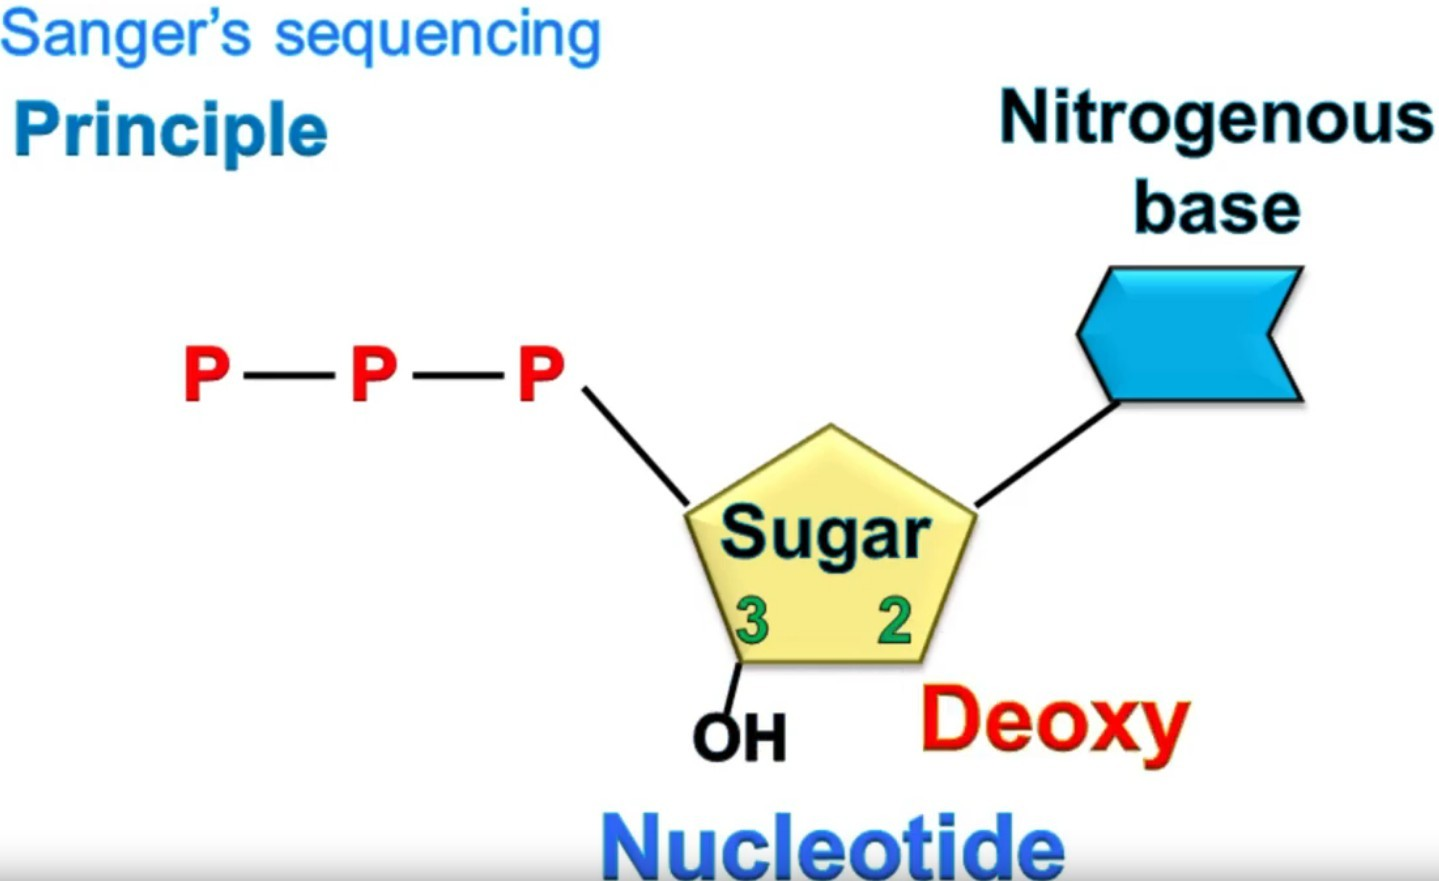
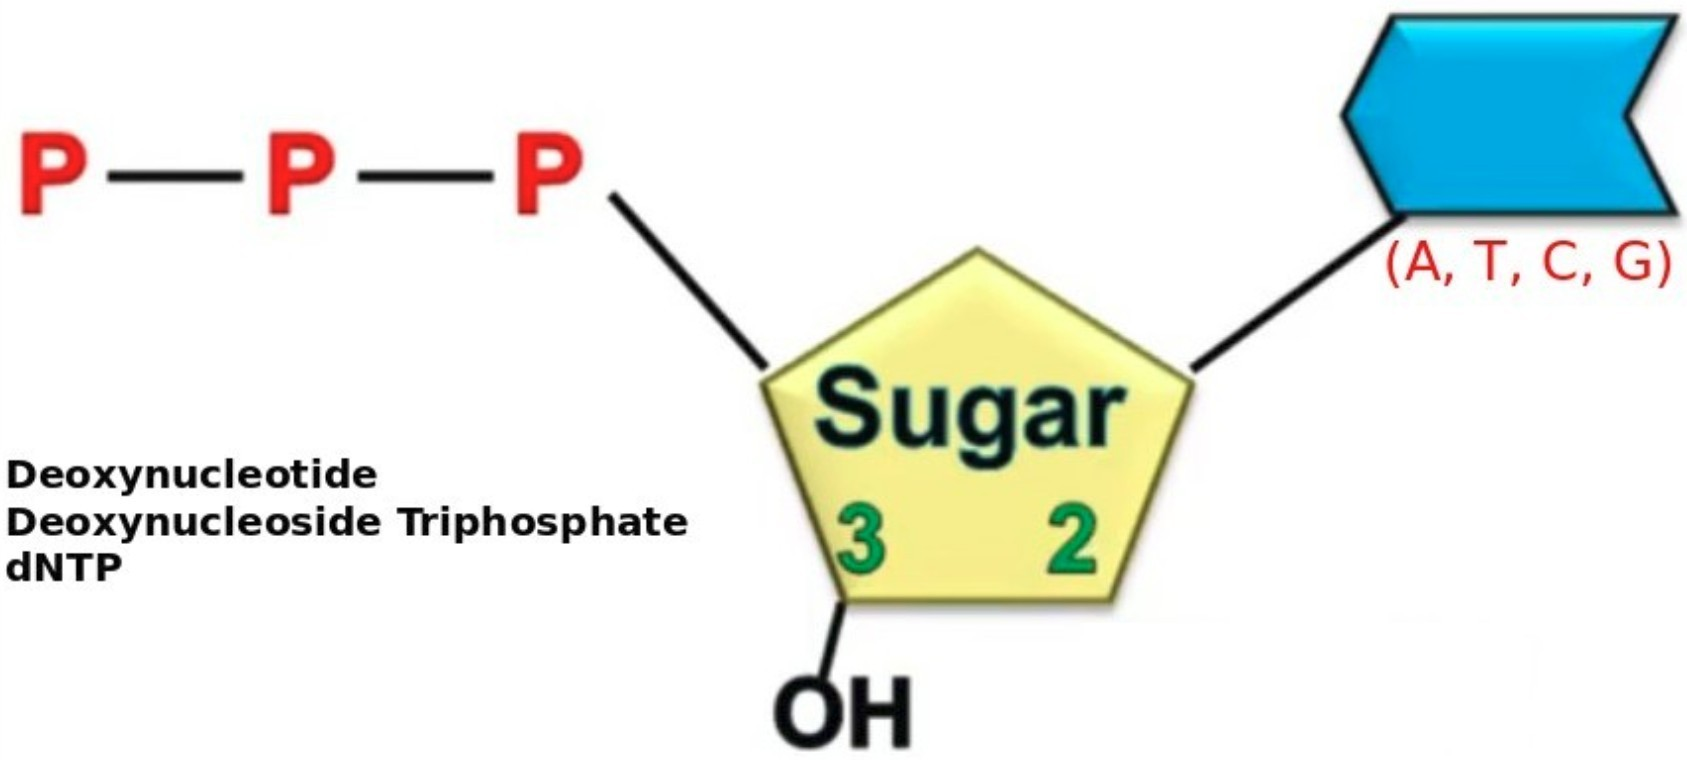
DNA sequencing terminado

Changed region(s): [[0.0, 0.0, 1.0, 1.0], [0.0, 0.0, 0.4281, 0.3026], [0.0, 0.6053, 0.4281, 0.7868]]

diff --git a/5_dna_sequencing.tex b/5_dna_sequencing.tex
@@ -25,7 +25,7 @@
 % CHOOSE THE THEME
 %-------------------------------------------------------
 \def\mycmd{0} % CS THEME
-\def\mycmd{1} % MYTHEME
+%\def\mycmd{1} % MYTHEME
 %-------------------------------------------------------
 
 \if\mycmd1
@@ -51,11 +51,11 @@
 \begin{document}
 	
 	
-	\AtBeginSection[]
+	\AtBeginSubsection[]
 	{
 		\begin{frame}
 			\frametitle{Table of Contents}
-			\tableofcontents[currentsection]
+			\tableofcontents[currentsubsection]
 		\end{frame}
 	}
 	
@@ -171,14 +171,22 @@
 %-------------------------------------------------------
 \begin{frame}{Sanger DNA sequencing}{Definition}
 	
-	\begin{block}{}
-		Sanger in 1975 proposed a method for determining sequences in DNA by primed synthesis with DNA polymerase \cite{sanger1996rapid}.
-	\end{block}
-	
-	\begin{block}{}
-		Sanger method is based on the principle of \textbf{Di deoxynucleotide}.
-	\end{block}
-	
+		\begin{columns}
+			\begin{column}{0.48\textwidth}
+				\begin{block}{}
+					Sanger (1975) proposed a method for determining sequences in DNA by primed synthesis with DNA polymerase \cite{sanger1977dna}. \\ 
+					It is based on the principle of \textbf{Di deoxynucleotide}.
+				\end{block} 
+			\end{column}
+			\begin{column}{0.48\textwidth}
+				\begin{figure}[]
+					\centering
+					\includegraphics[width=\textwidth,height=0.5\textheight,keepaspectratio]{img/sequencing/sanger.jpg}
+					\label{img:mot2}
+					\caption{Frederick Sanger in 1977.}
+				\end{figure}
+			\end{column}
+		\end{columns}	
 \end{frame}
 %-------------------------------------------------------
 %-------------------------------------------------------
@@ -207,12 +215,26 @@
 
 %-------------------------------------------------------
 %-------------------------------------------------------
+\begin{frame}{Sanger method}{dNTP}	
+	\begin{block}{dNTP}
+		Deoxynucleoside triphosphate \textbf{dNTPs} are standard natural substrates of all DNA polymerases.
+	\end{block}
+\end{frame}
+%-------------------------------------------------------
+%-------------------------------------------------------
+
+
+
+
+
+%-------------------------------------------------------
+%-------------------------------------------------------
 \begin{frame}{Sanger method}{Deoxynucleotide}
 	\begin{figure}[]
 		\centering
 		\includegraphics[width=\textwidth,height=0.6\textheight,keepaspectratio]{img/sequencing/seq2.jpg}
 		\label{img:mot2}
-		\caption{Deoxynucleotides doesn't have the hydroxyl group at the 4' carbon of sugar.}
+		\caption{Deoxynucleotides doesn't have the hydroxyl group at the 2' carbon of sugar.}
 	\end{figure}
 \end{frame}
 %-------------------------------------------------------
@@ -231,20 +253,23 @@
 %-------------------------------------------------------
 %-------------------------------------------------------
 
-
 %-------------------------------------------------------
 %-------------------------------------------------------
-\begin{frame}{Sanger method}{dNTP}	
-	\begin{block}{dNTP}
-		Deoxynucleoside triphosphate \textbf{dNTPs} are standard natural substrates of all DNA polymerases.
-	\end{block}
+\begin{frame}{Sanger method}{Deoxynucleotide}
+	\begin{figure}[]
+		\centering
+		\includegraphics[width=\textwidth,height=0.7\textheight,keepaspectratio]{img/sequencing/seq10.png}
+		\label{img:mot2}
+		\caption{Deoxynucleotides: dATP, dTTP, dCTP and dGTP.}
+	\end{figure}
 \end{frame}
 %-------------------------------------------------------
 %-------------------------------------------------------
 
+
 %-------------------------------------------------------
 %-------------------------------------------------------
-\begin{frame}{Sanger method}{Nucleotides and nucleosides}
+\begin{frame}{Sanger method}{DNA replication - Di Deoxynucletide principle}
 	\begin{figure}[]
 		\centering
 		\includegraphics[width=\textwidth,height=0.6\textheight,keepaspectratio]{img/sequencing/seq4.jpg}
@@ -257,7 +282,7 @@
 
 %-------------------------------------------------------
 %-------------------------------------------------------
-\begin{frame}{Sanger method}{Nucleotides and nucleosides}
+\begin{frame}{Sanger method}{DNA replication - Di Deoxynucletide principle}
 	\begin{figure}[]
 		\centering
 		\includegraphics[width=\textwidth,height=0.6\textheight,keepaspectratio]{img/sequencing/seq5.jpg}
@@ -270,7 +295,7 @@
 
 %-------------------------------------------------------
 %-------------------------------------------------------
-\begin{frame}{Sanger method}{Nucleotides and nucleosides}
+\begin{frame}{Sanger method}{DNA replication - Di Deoxynucletide principle}
 	\begin{figure}[]
 		\centering
 		\includegraphics[width=\textwidth,height=0.6\textheight,keepaspectratio]{img/sequencing/seq6.jpg}
@@ -282,12 +307,226 @@
 %-------------------------------------------------------
 
 
+%-------------------------------------------------------
+%-------------------------------------------------------
+\begin{frame}{Sanger method}{DNA replication - Di Deoxynucletide principle}
+	\begin{figure}[]
+		\centering
+		\includegraphics[width=\textwidth,height=0.6\textheight,keepaspectratio]{img/sequencing/seq7.jpg}
+		\label{img:mot2}
+		\caption{If 3' OH group is absent, the reaction stop.}
+	\end{figure}
+\end{frame}
+%-------------------------------------------------------
+%-------------------------------------------------------
+
+
+%-------------------------------------------------------
+%-------------------------------------------------------
+\begin{frame}{Sanger method}{DNA replication - Di Deoxynucletide principle}
+	\begin{figure}[]
+		\centering
+		\includegraphics[width=\textwidth,height=0.6\textheight,keepaspectratio]{img/sequencing/seq8.jpg}
+		\label{img:mot2}
+		\caption{If 3' OH group is absent, the reaction stop.}
+	\end{figure}
+\end{frame}
+%-------------------------------------------------------
+%-------------------------------------------------------
+
+%-------------------------------------------------------
+%-------------------------------------------------------
+\begin{frame}{Sanger method}{Deoxynucleotide}
+	\begin{figure}[]
+		\centering
+		\includegraphics[width=\textwidth,height=0.7\textheight,keepaspectratio]{img/sequencing/seq9.png}
+		\label{img:mot2}
+		\caption{Deoxynucleotide and Di Deoxynucletide.}
+	\end{figure}
+\end{frame}
+%-------------------------------------------------------
+%-------------------------------------------------------
+
+%%%%%%%%%%%%%%%%%%%%%%%%%%%%%%%%%%%%%%%%%%%%%%%%%%%%%%%%%%%%%%%%%%%%%%%%%%%%%%%%%%%%%%%%%%%%%%%%%%%%%%%%%%%%%%%%
+%%%%%%%%%%%%%%%%%%%%%%%%%%%%%%%%%%%%%%%%%%%%%%%%%%%%%%%%%%%%%%%%%%%%%%%%%%%%%%%%%%%%%%%%%%%%%%%%%%%%%%%%%%%%%%%%
+%%%%%%%%%%%%%%%%%%%%%%%%%%%%%%%%%%%%%%%%%%%%%%%%%%%%%%%%%%%%%%%%%%%%%%%%%%%%%%%%%%%%%%%%%%%%%%%%%%%%%%%%%%%%%%%%
+\subsection{Sanger Method}
+%%%%%%%%%%%%%%%%%%%%%%%%%%%%%%%%%%%%%%%%%%%%%%%%%%%%%%%%%%%%%%%%%%%%%%%%%%%%%%%%%%%%%%%%%%%%%%%%%%%%%%%%%%%%%%%%
+%%%%%%%%%%%%%%%%%%%%%%%%%%%%%%%%%%%%%%%%%%%%%%%%%%%%%%%%%%%%%%%%%%%%%%%%%%%%%%%%%%%%%%%%%%%%%%%%%%%%%%%%%%%%%%%%
+%%%%%%%%%%%%%%%%%%%%%%%%%%%%%%%%%%%%%%%%%%%%%%%%%%%%%%%%%%%%%%%%%%%%%%%%%%%%%%%%%%%%%%%%%%%%%%%%%%%%%%%%%%%%%%%%
+
+%-------------------------------------------------------
+%-------------------------------------------------------
+\begin{frame}{Sanger method}{Double helix DNA}
+	\begin{figure}[]
+		\centering
+		\includegraphics[width=\textwidth,height=0.7\textheight,keepaspectratio]{img/sequencing/seq11.jpg}
+		\label{img:mot2}
+		\caption{The Sanger method start from a double helix DNA.}
+	\end{figure}
+\end{frame}
+%-------------------------------------------------------
+%-------------------------------------------------------
+
+%-------------------------------------------------------
+%-------------------------------------------------------
+\begin{frame}{Sanger method}{Single strand DNA}
+	\begin{figure}[]
+		\centering
+		\includegraphics[width=\textwidth,height=0.7\textheight,keepaspectratio]{img/sequencing/seq12.jpg}
+		\label{img:mot2}
+		\caption{The double helix DNA is separated with high temperatures.}
+	\end{figure}
+\end{frame}
+%-------------------------------------------------------
+%-------------------------------------------------------
+
+
+%-------------------------------------------------------
+%-------------------------------------------------------
+\begin{frame}{Sanger method}{Primer - dNTPs - DNA Polymerase}
+	\begin{figure}[]
+		\centering
+		\includegraphics[width=\textwidth,height=0.7\textheight,keepaspectratio]{img/sequencing/seq13.jpg}
+		\label{img:mot2}
+		\caption{Three components are prepared in vitro. dNTPs, DNA Polymerase and a Primer.}
+	\end{figure}
+\end{frame}
+%-------------------------------------------------------
+%-------------------------------------------------------
+
+%-------------------------------------------------------
+%-------------------------------------------------------
+\begin{frame}{Sanger method}{Fluorophore labeled deoxynucleotide}
+	\begin{figure}[]
+		\centering
+		\includegraphics[width=\textwidth,height=0.7\textheight,keepaspectratio]{img/sequencing/seq21.jpg}
+		\label{img:mot2}
+		\caption{The ddNTPs are fluorophore labeled.}
+	\end{figure}
+\end{frame}
+%-------------------------------------------------------
+%-------------------------------------------------------
+
+%-------------------------------------------------------
+%-------------------------------------------------------
+\begin{frame}{Sanger method}{Primer - dNTPs - DNA Polymerase}
+	\begin{figure}[]
+		\centering
+		\includegraphics[width=\textwidth,height=0.7\textheight,keepaspectratio]{img/sequencing/seq14.jpg}
+		\label{img:mot2}
+		\caption{Four tubes are used. Each tube contains: DNA template, primer, dNTPs, DNA polymerase and one type of ddNTP (ATP or TTP or CTP or GTP).}
+	\end{figure}
+\end{frame}
+%-------------------------------------------------------
+%-------------------------------------------------------
 
 
 
+%-------------------------------------------------------
+%-------------------------------------------------------
+\begin{frame}{Sanger method}{DNA replication in each tube}
+	\begin{figure}[]
+		\centering
+		\includegraphics[width=\textwidth,height=0.7\textheight,keepaspectratio]{img/sequencing/seq15.jpg}
+		\label{img:mot2}
+		\caption{DNA replication occurs in each tube. The tubes contains the dNTPs.}
+	\end{figure}
+\end{frame}
+%-------------------------------------------------------
+%-------------------------------------------------------
+
+%-------------------------------------------------------
+%-------------------------------------------------------
+\begin{frame}{Sanger method}{DNA replication stop when ddNTP arrives}
+	\begin{figure}[]
+		\centering
+		\includegraphics[width=\textwidth,height=0.7\textheight,keepaspectratio]{img/sequencing/seq16.jpg}
+		\label{img:mot2}
+		\caption{DNA replication stop when a ddNTP arrives.}
+	\end{figure}
+\end{frame}
+%-------------------------------------------------------
+%-------------------------------------------------------
 
 
+%-------------------------------------------------------
+%-------------------------------------------------------
+\begin{frame}{Sanger method}{DNA replication starts again}
+	\begin{figure}[]
+		\centering
+		\includegraphics[width=\textwidth,height=0.7\textheight,keepaspectratio]{img/sequencing/seq17.jpg}
+		\label{img:mot2}
+		\caption{DNA replication starts again and different fragments length are obtained.}
+	\end{figure}
+\end{frame}
+%-------------------------------------------------------
+%-------------------------------------------------------
 
+
+%-------------------------------------------------------
+%-------------------------------------------------------
+\begin{frame}{Sanger method}{DNA replication starts again}
+	\begin{figure}[]
+		\centering
+		\includegraphics[width=\textwidth,height=0.7\textheight,keepaspectratio]{img/sequencing/seq18.jpg}
+		\label{img:mot2}
+		\caption{DNA replication starts again and different fragments are obtained.}
+	\end{figure}
+\end{frame}
+%-------------------------------------------------------
+%-------------------------------------------------------
+
+%-------------------------------------------------------
+%-------------------------------------------------------
+\begin{frame}{Sanger method}{Each tube have fragments of DNA}
+	\begin{figure}[]
+		\centering
+		\includegraphics[width=\textwidth,height=0.5\textheight,keepaspectratio]{img/sequencing/seq19.jpg}
+		\label{img:mot2}
+		\caption{On each tube, there are DNA fragments, each one with different length.}
+	\end{figure}
+\end{frame}
+%-------------------------------------------------------
+%-------------------------------------------------------
+
+%-------------------------------------------------------
+%-------------------------------------------------------
+\begin{frame}{Sanger method}{Each tube have fragments of DNA}
+	\begin{figure}[]
+		\centering
+		\includegraphics[width=\textwidth,height=0.5\textheight,keepaspectratio]{img/sequencing/seq20.jpg}
+		\label{img:mot2}
+		\caption{The fragment are charged and they move over a conductor. Smaller flows rapidly and they are read by a laser.}
+	\end{figure}
+\end{frame}
+%-------------------------------------------------------
+%-------------------------------------------------------
+
+%-------------------------------------------------------
+%-------------------------------------------------------
+\begin{frame}{Sanger method}{Many samples read}
+	\begin{figure}[]
+		\centering
+		\includegraphics[width=\textwidth,height=0.5\textheight,keepaspectratio]{img/sequencing/seq22.jpg}
+		\label{img:mot2}
+		\caption{The process is repeated several times and many samples are obtained.}
+	\end{figure}
+\end{frame}
+%-------------------------------------------------------
+%-------------------------------------------------------
+
+
+%-------------------------------------------------------
+%-------------------------------------------------------
+\begin{frame}{Sanger method}{Capillary Electrophoresis Animation}
+	\begin{block}{}
+		\href{https://www.youtube.com/watch?v=wdS3j0TgbjM&list=PLgM5s3vRHCgejiz7lKLR318mXs0ox4NFC&index=6&t=0s}{Capillary Electrophoresis Animation.}
+		
+	\end{block}
+\end{frame}
+%-------------------------------------------------------
+%-------------------------------------------------------
 
 
 %-------------------------------------------------------

diff --git a/1_introduction.tex b/1_introduction.tex
@@ -25,7 +25,7 @@
 % CHOOSE THE THEME
 %-------------------------------------------------------
 \def\mycmd{0} % CS THEME
-\def\mycmd{1} % MYTHEME
+%\def\mycmd{1} % MYTHEME
 %-------------------------------------------------------
 
 \if\mycmd1

diff --git a/2_biology_cell.tex b/2_biology_cell.tex
@@ -25,7 +25,7 @@
 % CHOOSE THE THEME
 %-------------------------------------------------------
 \def\mycmd{0} % CS THEME
-\def\mycmd{1} % MYTHEME
+%\def\mycmd{1} % MYTHEME
 %-------------------------------------------------------
 
 \if\mycmd1

diff --git a/4_dna_structure_replication.tex b/4_dna_structure_replication.tex
@@ -25,7 +25,7 @@
 % CHOOSE THE THEME
 %-------------------------------------------------------
 \def\mycmd{0} % CS THEME
-\def\mycmd{1} % MYTHEME
+%\def\mycmd{1} % MYTHEME
 %-------------------------------------------------------
 
 \if\mycmd1
